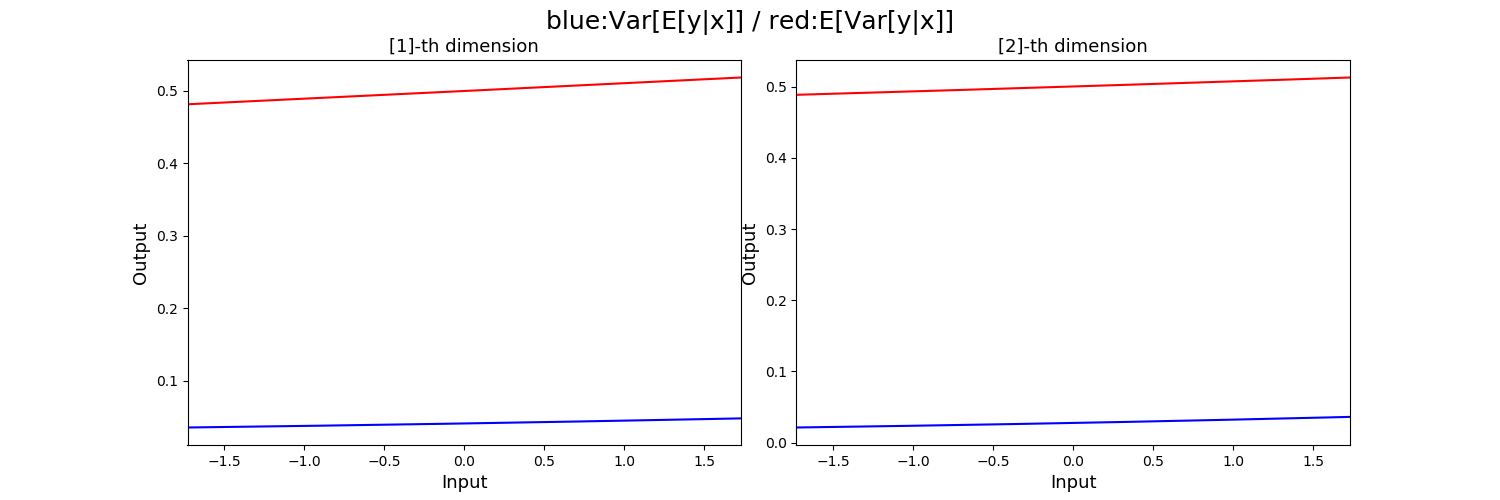
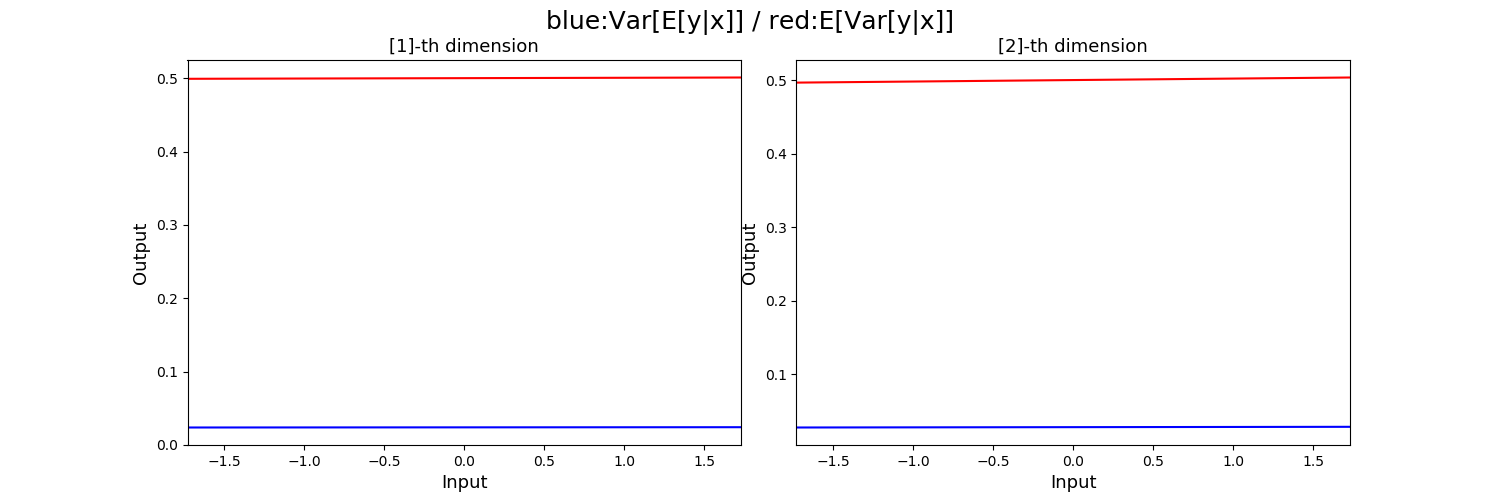
activation edited

diff --git a/subclass_model.py b/subclass_model.py
@@ -105,8 +105,8 @@ class MDN_reg_class(Model):
 
     def custom_loss(self, x_train,y_true):
         tfd_mog=self.call(x_train)
-        log_liks=tfd_mog.log_prob(y_true[0])
-        log_lik=K.mean(log_liks)
+        log_liks=tfd_mog.log_prob(y_true)
+        log_lik=tf.reduce_mean(log_liks)
         return -log_lik
 
     # # Plot results
@@ -199,7 +199,7 @@ class MDN_reg_class(Model):
     def phi_network(self):
         model = Sequential(name="PhiLayer")
         model.add(Dense(self.k, kernel_initializer=tfrni(stddev=0.01),
-                        bias_initializer=tfci(0),kernel_regularizer=l2(self.l2_reg_coef), dtype=tf.float32))
+                        bias_initializer=tfci(0),kernel_regularizer=l2(self.l2_reg_coef), dtype=tf.float32,activation='tanh'))
         # softmax 과정
         model.add(Softmax(axis=1))
         return model
@@ -208,14 +208,14 @@ class MDN_reg_class(Model):
         model=Sequential(name="Mu")
         model.add(Dense(self.k*self.y_dim, kernel_initializer=tfrni(stddev=0.01),
                         bias_initializer=tfrui(minval=-1, maxval=1),
-                        kernel_regularizer=l2(self.l2_reg_coef), dtype=tf.float32))
+                        kernel_regularizer=l2(self.l2_reg_coef), dtype=tf.float32, activation='tanh'))
         model.add(Reshape((self.y_dim, self.k)))
         return model
 
     def logvar_network(self):
         model=Sequential(name="LogVar")
         model.add(Dense(self.k*self.y_dim, kernel_initializer=tfrni(stddev=0.01),
-                        bias_initializer=tfci(0), kernel_regularizer=l2(self.l2_reg_coef),dtype=tf.float32))
+                        bias_initializer=tfci(0), kernel_regularizer=l2(self.l2_reg_coef),dtype=tf.float32, activation='tanh'))
         model.add(Reshape((self.y_dim, self.k)))
         return model
 

diff --git a/demo_mdn.py b/demo_mdn.py
@@ -1,13 +1,14 @@
 import numpy as np
 import matplotlib.pyplot as plt
 import tensorflow as tf
-from tensorflow.python.keras.optimizers import RMSprop
+from tensorflow.python.keras.optimizers import RMSprop, Adam
 # from model import MDN_reg_class
 from subclass_model import MDN_reg_class
 from util import gpu_sess,nzr
 from tensorflow.python.keras import backend as K
 import os
 from tensorflow.python.client import device_lib
+import argparse
 
 print(device_lib.list_local_devices())
 
@@ -79,14 +80,14 @@ x_test = nzr_x_train.get_nzdval(x_test) # normalize test input
 if __name__ =='__main__':
     K.set_session(sess)
     M = MDN_reg_class(_x_dim=1, _y_dim=2, _k=20, _hids=[128, 128], _actv=tf.nn.tanh,
-                      _sig_max=1.0, _SCHEDULE_SIG_MAX=True, _l2_reg_coef=1e-4,
+                      _sig_max=1.0, _SCHEDULE_SIG_MAX=True, _l2_reg_coef=1e-5,
                       _sess=sess, _VERBOSE=False)
 
     print("[%s] instantiated" % (M.name))
 
     M.compile(optimizer="rmsprop", loss="mse")
-    lr = 0.001
-    optimizer = RMSprop(lr)
+    lr = 0.0001
+    optimizer = Adam(lr)
     # plot_model(M, to_file='model.png')
     M(x_train[:100])
     # train
